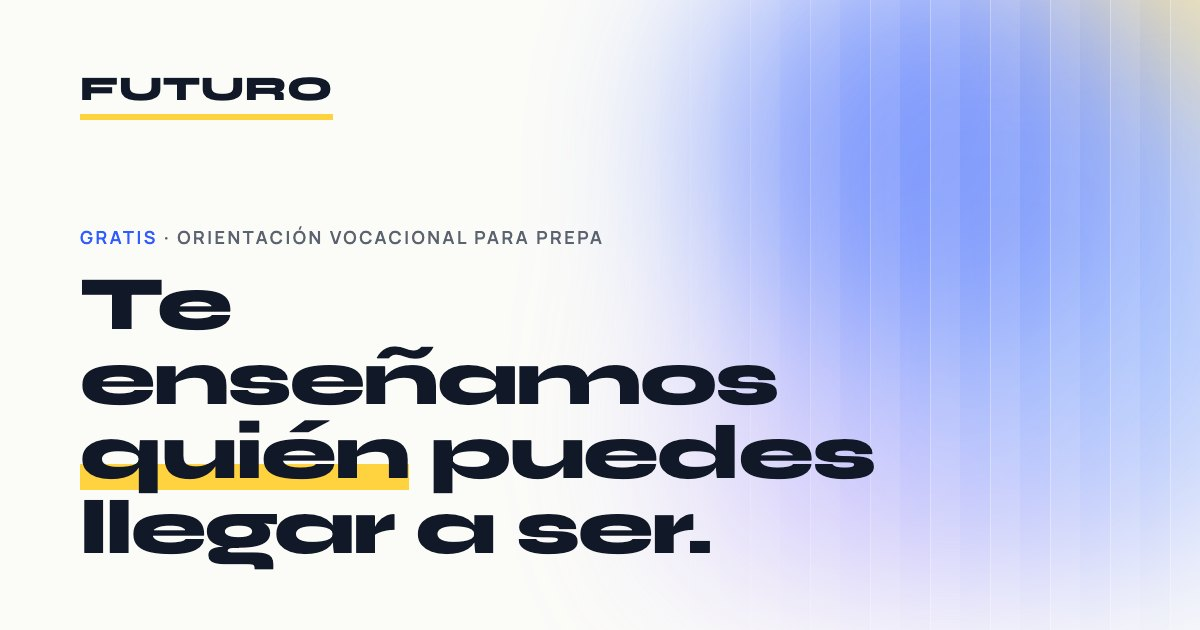
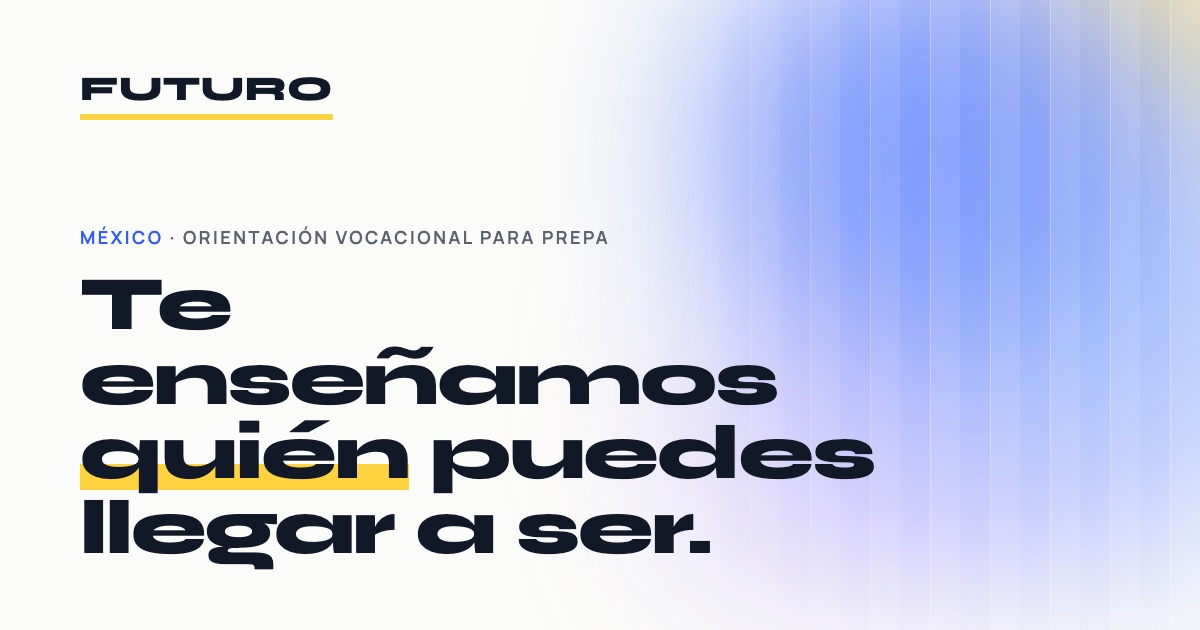
Quitar 'gratis': el precio está por confirmar
Botones 'Haz tu test', sello en lugar de la tarjeta de precio, FAQ con
precio por confirmar, WhatsApp y metadatos sin 'gratis', og.jpg nueva.

Changed region(s): [[0.0617, 0.3619, 0.5242, 0.3921]]

diff --git a/index.html b/index.html
@@ -1,8 +1,8 @@
 <title>FUTURO · Descubre tu ruta</title>
 <meta name="claude:viewport-fit-sides" content="cover">
-<meta name="description" content="Orientación vocacional gratis para prepa en México. Dos tests, tu top 3 de carreras con % de match, universidades reales, becas oficiales y un audio de tu yo del 2045.">
+<meta name="description" content="Orientación vocacional para prepa en México. Dos tests, tu top 3 de carreras con % de match, universidades reales, becas oficiales y un audio de tu yo del 2045.">
 <meta property="og:title" content="FUTURO · Descubre tu ruta">
-<meta property="og:description" content="No te decimos qué estudiar. Te enseñamos quién puedes llegar a ser. Gratis, en unos 5 minutos.">
+<meta property="og:description" content="No te decimos qué estudiar. Te enseñamos quién puedes llegar a ser. En unos 5 minutos.">
 <meta property="og:type" content="website">
 <meta property="og:locale" content="es_MX">
 <meta property="og:image" content="assets/og.jpg">
@@ -122,7 +122,8 @@ h1,h2,h3{margin:0;font-family:var(--display);text-wrap:balance}
 .cta-row{display:flex;flex-wrap:wrap;gap:12px;align-items:center}
 @media (max-width:520px){.cta-row .btn{width:100%}}
 .meta{display:grid;grid-template-columns:repeat(2,minmax(0,1fr));gap:10px;max-width:560px}
-@media (min-width:560px){.meta{grid-template-columns:repeat(4,minmax(0,1fr))}}
+.meta div:last-child{grid-column:1 / -1}
+@media (min-width:560px){.meta{grid-template-columns:repeat(3,minmax(0,1fr))}.meta div:last-child{grid-column:auto}}
 .meta div{border:1px solid var(--line);border-radius:16px;background:var(--surface);padding:12px 14px;display:grid;gap:4px}
 .meta span{font:600 11px/1.2 var(--body);letter-spacing:.14em;text-transform:uppercase;color:var(--muted)}
 .meta strong{font:700 18px/1.15 var(--display)}
@@ -183,7 +184,7 @@ h1,h2,h3{margin:0;font-family:var(--display);text-wrap:balance}
   .t-top{grid-column:span 6;grid-row:span 2}
   .t-becas{grid-column:span 6}
   .t-audio{grid-column:span 3}
-  .t-free{grid-column:span 3}
+  .t-sello{grid-column:span 3}
   .t-unis{grid-column:1 / -1}
 }
 .t-top{display:flex;flex-direction:column}
@@ -209,8 +210,8 @@ h1,h2,h3{margin:0;font-family:var(--display);text-wrap:balance}
 .mini-wave i{flex:1;max-width:8px;background:var(--sky);border-radius:9px;height:var(--h)}
 .t-audio strong{font:700 22px/1.15 var(--display)}
 .t-audio .go{font-weight:600;color:var(--night-muted)}
-.t-free .word{font:800 clamp(40px,10vw,56px)/.95 var(--display);letter-spacing:-.02em}
-@media (min-width:900px){.t-free .word{font-size:clamp(30px,3vw,40px)}}
+.t-sello .word{font:700 clamp(24px,6.4vw,30px)/1.12 var(--display);letter-spacing:-.01em;text-wrap:balance}
+@media (min-width:900px){.t-sello .word{font-size:clamp(20px,1.9vw,24px)}}
 .unis-head{display:flex;flex-wrap:wrap;justify-content:space-between;align-items:baseline;gap:8px 24px}
 .unis-head h3{font-weight:700;font-size:clamp(22px,3vw,30px);line-height:1.15}
 .unis{display:grid;gap:16px}
@@ -337,7 +338,7 @@ h1,h2,h3{margin:0;font-family:var(--display);text-wrap:balance}
 <section class="hero" id="top" aria-labelledby="h-hero">
   <div class="wrap hero-grid">
     <div class="hero-copy">
-      <p class="label fade" style="--i:0"><b>Gratis</b> · Para prepa en México</p>
+      <p class="label fade" style="--i:0"><b>Para prepa</b> · en México</p>
       <div>
         <p class="pre-h fade" style="--i:1">No te decimos qué estudiar.</p>
         <h1 class="h1" id="h-hero" style="margin-top:12px">
@@ -348,13 +349,12 @@ h1,h2,h3{margin:0;font-family:var(--display);text-wrap:balance}
       </div>
       <p class="lead fade" style="--i:4">Haz dos tests, conoce tu top 3 de carreras con universidades y becas reales, y escucha a tu yo del 2045 contándote su día.</p>
       <div class="cta-row fade" style="--i:5">
-        <a class="btn btn-primary" href="https://futuro-final.lovable.app" target="_blank" rel="noopener">Haz tu test gratis <span class="arr" aria-hidden="true">→</span></a>
+        <a class="btn btn-primary" href="https://futuro-final.lovable.app" target="_blank" rel="noopener">Haz tu test <span class="arr" aria-hidden="true">→</span></a>
         <a class="btn btn-ghost" href="#como">Ver cómo funciona</a>
       </div>
       <div class="meta fade" style="--i:6">
         <div><span>Tests</span><strong>2</strong></div>
         <div><span>Tiempo</span><strong>5 min</strong></div>
-        <div><span>Precio</span><strong>Gratis</strong></div>
         <div><span>Contraseñas</span><strong>Ninguna</strong></div>
       </div>
     </div>
@@ -489,10 +489,9 @@ h1,h2,h3{margin:0;font-family:var(--display);text-wrap:balance}
         <strong>Tu yo del 2045</strong>
         <span class="go">Escúchalo <span aria-hidden="true">↓</span></span>
       </a>
-      <article class="tile t-free fade" style="--i:3">
-        <p class="label">Precio</p>
-        <p class="word">Gratis</p>
-        <p class="muted">Y sin contraseñas.</p>
+      <article class="tile t-sello fade" style="--i:3">
+        <p class="label">Sello</p>
+        <p class="word">Ninguna universidad paga por aparecer aquí.</p>
       </article>
       <article class="tile t-unis fade" style="--i:2">
         <div class="unis-head">
@@ -608,7 +607,7 @@ h1,h2,h3{margin:0;font-family:var(--display);text-wrap:balance}
       <h2 class="h2" id="h-faq"><span class="ln"><span>Lo que te</span></span><span class="ln"><span style="--i:1"><span class="u">preguntas</span>.</span></span></h2>
     </div>
     <div class="faq">
-      <details><summary>¿Cuánto cuesta?<span class="pm" aria-hidden="true"></span></summary><p class="a">Nada. FUTURO es gratis.</p></details>
+      <details><summary>¿Cuánto cuesta?<span class="pm" aria-hidden="true"></span></summary><p class="a">El precio está por confirmar. Lo publicamos aquí antes del lanzamiento.</p></details>
       <details><summary>¿Cuánto tiempo toma?<span class="pm" aria-hidden="true"></span></summary><p class="a">Unos 5 minutos: dos tests cortos y luego tus resultados.</p></details>
       <details><summary>¿Tengo que conectar Pinterest?<span class="pm" aria-hidden="true"></span></summary><p class="a">No. Es opcional. Si lo conectas, tus pines se leen en tu teléfono de forma anónima y solo usamos números agregados.</p></details>
       <details><summary>¿Cómo sacan mi % de match?<span class="pm" aria-hidden="true"></span></summary><p class="a">Cruzamos tus respuestas con el modelo RIASEC de intereses y con los datos de ocupaciones de <a href="https://www.onetcenter.org/database.html" target="_blank" rel="noopener">O*NET</a>. El resultado es tu top 3 de carreras.</p></details>
@@ -627,8 +626,8 @@ h1,h2,h3{margin:0;font-family:var(--display);text-wrap:balance}
         <h2 class="h2" id="h-final"><span class="ln"><span>Tu 2045</span></span><span class="ln"><span style="--i:1">empieza</span></span><span class="ln"><span style="--i:2"><span class="u">hoy</span>.</span></span></h2>
         <p class="lead fade" style="--i:2">Dos tests, unos 5 minutos y cero costo.</p>
         <div class="cta-row fade" style="--i:3">
-          <a class="btn btn-primary" href="https://futuro-final.lovable.app" target="_blank" rel="noopener">Haz tu test gratis <span class="arr" aria-hidden="true">→</span></a>
-          <a class="btn btn-ghost" id="cta-hijo" href="https://wa.me/?text=Encontr%C3%A9%20esto%20para%20elegir%20carrera%3A%20un%20test%20vocacional%20gratis%2C%20en%20unos%205%20minutos.%20%C2%BFLo%20haces%3F%20https%3A%2F%2Ffuturo-final.lovable.app%2F%3Futm_source%3Dorganico%26utm_medium%3Dwhatsapp_papa" target="_blank" rel="noopener" aria-label="Mándaselo a tu hijo por WhatsApp">Mándaselo a tu hijo</a>
+          <a class="btn btn-primary" href="https://futuro-final.lovable.app" target="_blank" rel="noopener">Haz tu test <span class="arr" aria-hidden="true">→</span></a>
+          <a class="btn btn-ghost" id="cta-hijo" href="https://wa.me/?text=Encontr%C3%A9%20esto%20para%20elegir%20carrera%3A%20un%20test%20vocacional%20de%20unos%205%20minutos.%20%C2%BFLo%20haces%3F%20https%3A%2F%2Ffuturo-final.lovable.app%2F%3Futm_source%3Dorganico%26utm_medium%3Dwhatsapp_papa" target="_blank" rel="noopener" aria-label="Mándaselo a tu hijo por WhatsApp">Mándaselo a tu hijo</a>
         </div>
         <p class="muted fade" style="--i:4">¿Eres mamá o papá? El botón abre WhatsApp con el link listo para mandar.</p>
       </div>
@@ -651,7 +650,7 @@ h1,h2,h3{margin:0;font-family:var(--display);text-wrap:balance}
     <dl>
       <div><dt class="label">Fuentes</dt><dd>Deserción y cambio de carrera: Milenio. Ranking: <a href="https://www.topuniversities.com/world-university-rankings" target="_blank" rel="noopener">QS World University Rankings 2026</a>. Ocupaciones: <a href="https://www.onetcenter.org/database.html" target="_blank" rel="noopener">O*NET</a>. Los % de match y el audio de esta página son un perfil de ejemplo.</dd></div>
       <div><dt class="label">Créditos</dt><dd>Video del inicio: George Pak, RDNE Stock project, Yan Krukau y Kampus Production en Pexels. Video promocional: clips de Pexels y Mixkit. Fotos vía Wikimedia Commons: Universidad de Salamanca por Nacaru (CC BY-SA 4.0), Tec de Monterrey por Dzo22 (CC BY 4.0) y UNAM por Carlos Valenzuela (CC BY-SA 4.0).</dd></div>
-      <div><dt class="label">FUTURO · 2026</dt><dd>Orientación vocacional gratis para prepa en México.</dd></div>
+      <div><dt class="label">FUTURO · 2026</dt><dd>Orientación vocacional para prepa en México.</dd></div>
     </dl>
   </div>
 </footer>
@@ -747,7 +746,7 @@ h1,h2,h3{margin:0;font-family:var(--display);text-wrap:balance}
     w.searchParams.set('utm_medium','whatsapp_papa');
     if(utm.utm_campaign)w.searchParams.set('utm_campaign',utm.utm_campaign);
     if(utm.utm_content)w.searchParams.set('utm_content',utm.utm_content);
-    hijo.href='https://wa.me/?text='+encodeURIComponent('Encontré esto para elegir carrera: un test vocacional gratis, en unos 5 minutos. ¿Lo haces? '+w);
+    hijo.href='https://wa.me/?text='+encodeURIComponent('Encontré esto para elegir carrera: un test vocacional de unos 5 minutos. ¿Lo haces? '+w);
   }
 
   /* Capítulos del video. */

diff --git a/og.html b/og.html
@@ -28,7 +28,7 @@
   <div class="in">
     <div class="logo">FUTURO<i></i></div>
     <div>
-      <p class="label"><b>Gratis</b> · Orientación vocacional para prepa</p>
+      <p class="label"><b>México</b> · Orientación vocacional para prepa</p>
       <h1>Te enseñamos <span class="u">quién</span> puedes llegar a ser.</h1>
     </div>
   </div>
